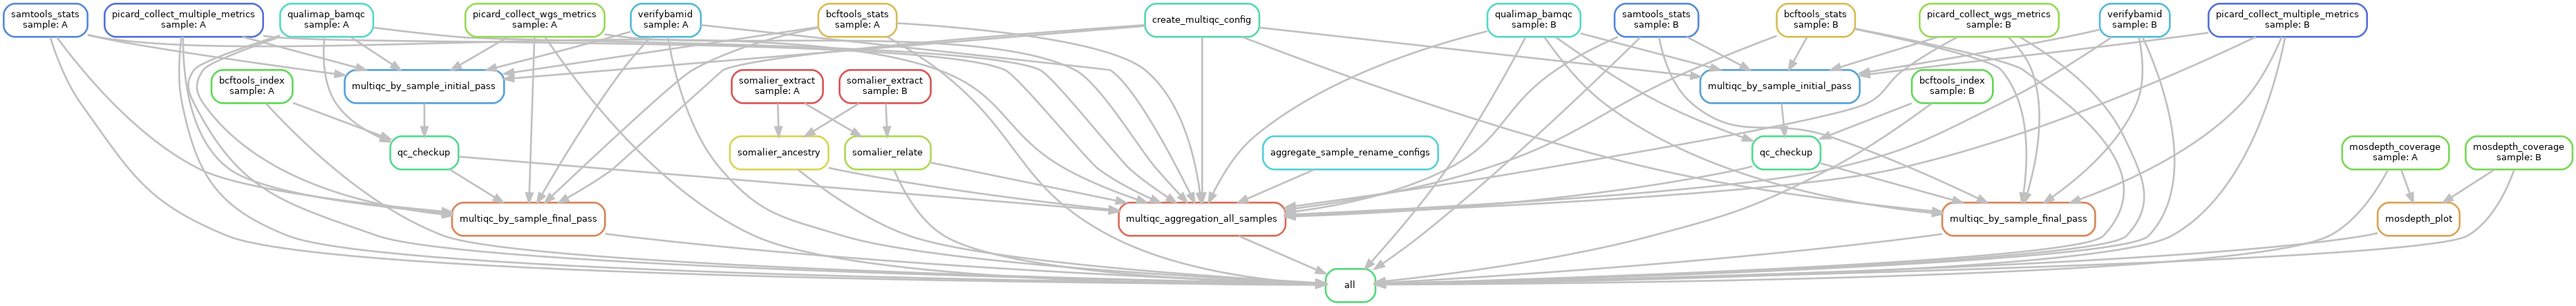
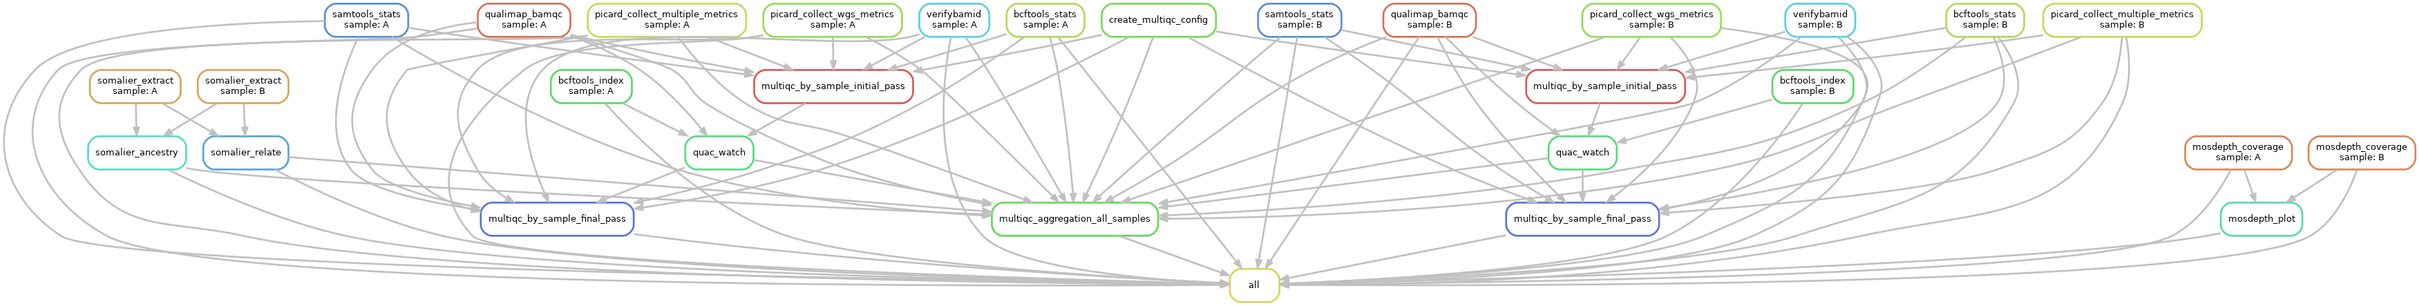
updates viz commands and viz images

diff --git a/docs/visualize_pipeline.md b/docs/visualize_pipeline.md
@@ -5,7 +5,7 @@ based on the test datasets are available in [directory `./pipeline_visualized/`]
 create this visualization:
 
 ```sh
-# open interactive node
+# For Cheaha users only. Open interactive node
 srun --ntasks=1 --cpus-per-task=1 --mem-per-cpu=4096 --partition=express --pty /bin/bash
 
 # For Cheaha users only. Set up environment. 
@@ -16,39 +16,52 @@ module load Singularity/3.5.2-GCC-5.4.0-2.26
 # activate conda env
 conda activate quac
 
+PROJECT_CONFIG="project_2samples"
+PRIOR_QC_STATUS="include_priorQC"
+
 DAG_DIR="pipeline_visualized"
 
 ###### WGS mode ######
 # DAG
 python src/run_quac.py \
       --project_name test_project \
-      --projects_path .test/ngs-data/ \
-      --pedigree .test/configs/project_2_samples.ped \
-      --run_locally --extra_args "--dag -F | dot -Tpng > ${DAG_DIR}/wgs_dag.png"
+      --projects_path ".test/ngs-data/" \
+      --pedigree ".test/configs/${PRIOR_QC_STATUS}/${PROJECT_CONFIG}.ped" \
+      --quac_watch_config "configs/quac_watch/wgs_quac_watch_config.yaml" \
+      --include_prior_qc \
+      --extra_args "--dag -F | dot -Tpng > ${DAG_DIR}/wgs_dag.png"
+
 
 # Rulegraph - less informative than DAG at sample level but less dense than DAG makes this easier to skim
 python src/run_quac.py \
       --project_name test_project \
-      --projects_path .test/ngs-data/ \
-      --pedigree .test/configs/project_2_samples.ped \
-      --run_locally --extra_args "--rulegraph -F | dot -Tpng > ${DAG_DIR}/wgs_rulegraph.png"
+      --projects_path ".test/ngs-data/" \
+      --pedigree ".test/configs/${PRIOR_QC_STATUS}/${PROJECT_CONFIG}.ped" \
+      --quac_watch_config "configs/quac_watch/wgs_quac_watch_config.yaml" \
+      --include_prior_qc \
+      --extra_args "--rulegraph -F | dot -Tpng > ${DAG_DIR}/wgs_rulegraph.png"
+
 
 ###### Exome mode ######
 # DAG
 python src/run_quac.py \
       --project_name test_project \
-      --projects_path .test/ngs-data/ \
-      --pedigree .test/configs/project_2_samples.ped \
-      --exome \
+      --projects_path ".test/ngs-data/" \
+      --pedigree ".test/configs/${PRIOR_QC_STATUS}/${PROJECT_CONFIG}.ped" \
       --quac_watch_config "configs/quac_watch/exome_quac_watch_config.yaml" \
-      --run_locally --extra_args "--dag -F | dot -Tpng > ${DAG_DIR}/exome_dag.png"
+      --include_prior_qc \
+      --exome \
+      --extra_args "--dag -F | dot -Tpng > ${DAG_DIR}/exome_dag.png"
+
 
 # Rulegraph - less informative than DAG at sample level but less dense than DAG makes this easier to skim
 python src/run_quac.py \
       --project_name test_project \
-      --projects_path .test/ngs-data/ \
-      --pedigree .test/configs/project_2_samples.ped \
-      --exome \
+      --projects_path ".test/ngs-data/" \
+      --pedigree ".test/configs/${PRIOR_QC_STATUS}/${PROJECT_CONFIG}.ped" \
       --quac_watch_config "configs/quac_watch/exome_quac_watch_config.yaml" \
-      --run_locally --extra_args "--rulegraph -F | dot -Tpng > ${DAG_DIR}/exome_rulegraph.png"
+      --include_prior_qc \
+      --exome \
+      --extra_args "--rulegraph -F | dot -Tpng > ${DAG_DIR}/exome_rulegraph.png"
+
 ```

diff --git a/docs/system_testing.md b/docs/system_testing.md
@@ -1,9 +1,10 @@
 # System testing
 
 The system testing implemented for this pipeline tests whether the pipeline runs from start to finish without any error.
-This testing uses test datasets present in [`.test/ngs-data/test_project`](../.test/ngs-data/test_project), which reflects
-a test project containing four samples (2 with input needed when `include_priorQC` is used and 2 other samples without
-priorQC data). [See here](../.test/README.md) for more info on how these test datasets were created.
+This testing uses test datasets present in [`.test/ngs-data/test_project`](../.test/ngs-data/test_project), which
+reflects a test project containing four samples -- Two samples without priorQC data (`no_priorQC`) and two with priorQC
+data (`include_priorQC`). [See .test/README.md](../.test/README.md) for more info on how these test datasets were
+created.
 
 !!! warning
 
